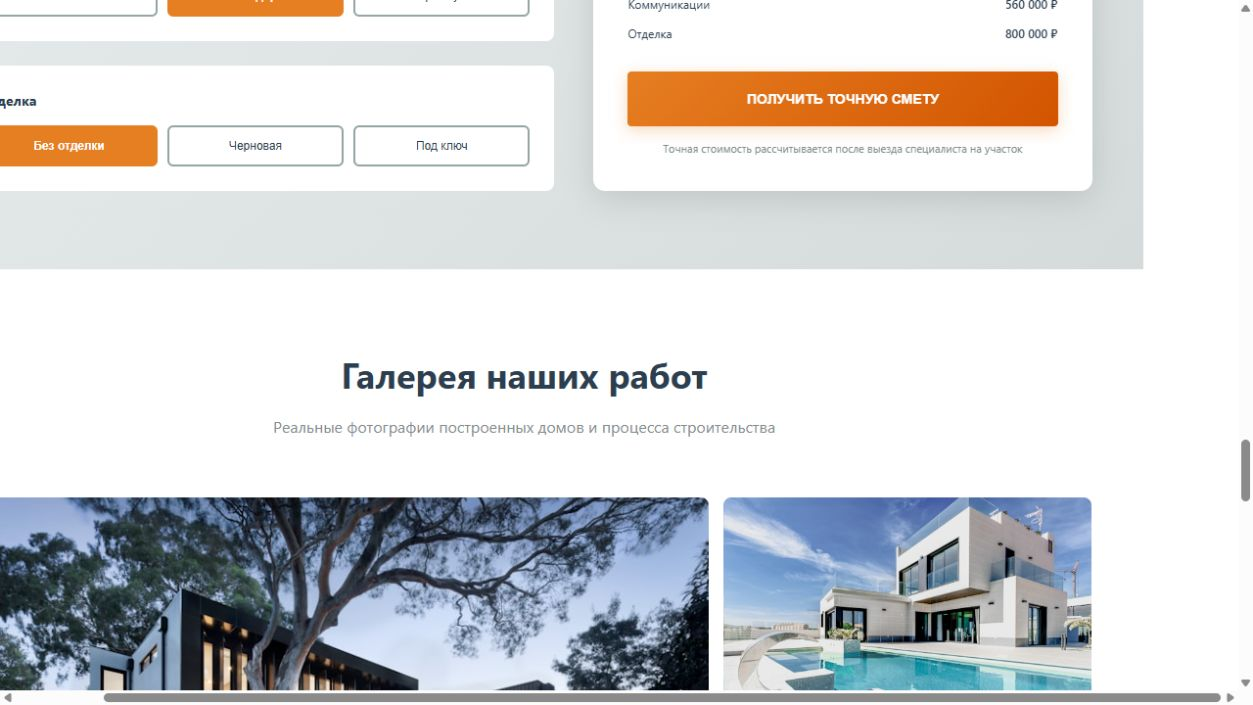
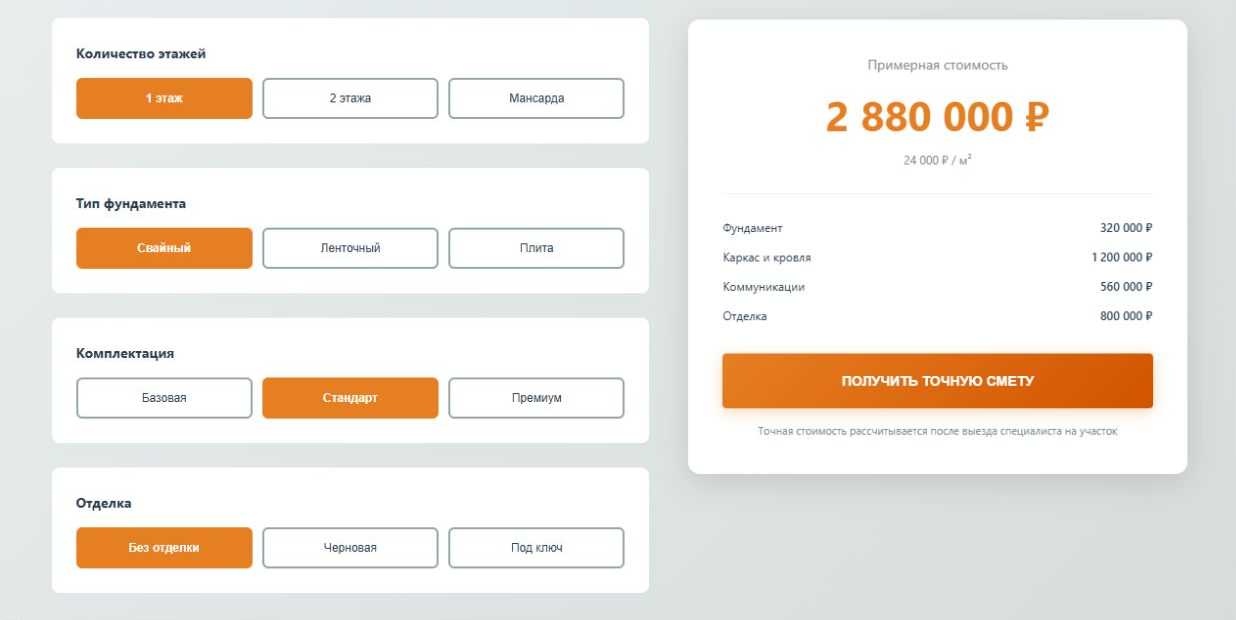
Polish case visuals and hero 3D

diff --git a/index.html b/index.html
@@ -138,6 +138,11 @@ body.admin-mode #cursor { display:none }
 .case-browser-bar span { width:.45rem; height:.45rem; border-radius:50%; background:#8f8c84 }
 .case-browser-bar i { display:block; width:35%; height:.42rem; margin-left:.35rem; border-radius:99px; background:#b4b1a9 }
 .case-browser img { display:block; width:100%; background:#111 }
+.case-screen--dream .case-screen-head { max-width:54rem }
+.case-screen--dream .case-browser { max-width:76rem; margin-inline:auto; padding:.65rem; overflow:hidden; background:#eef0ed; border-color:#d3d7d1; box-shadow:0 1.6rem 4rem rgba(18,25,28,.14) }
+.case-screen--dream .case-browser-bar { height:2.1rem; padding:0 .7rem; background:#fff; border:1px solid #d8ddd7; border-bottom:0 }
+.case-screen--dream .case-browser-bar strong { margin-left:auto; color:#606763; font-family:'JetBrains Mono',monospace; font-size:.63rem; font-weight:400; letter-spacing:.08em; text-transform:uppercase }
+.case-screen--dream .case-browser img { background:#e8edee; image-rendering:auto }
 .case-impact { display:grid; grid-template-columns:repeat(3,minmax(0,1fr)); gap:1px; margin-top:2.5rem; background:#d6d4cc; border:1px solid #d6d4cc }
 .case-impact-item { padding:1.35rem 1.5rem; background:#fff; color:#353535; font-size:.96rem; line-height:1.5 }
 .case-impact-item::before { content:'↗'; display:block; margin-bottom:1.1rem; color:var(--ink); font-family:'JetBrains Mono',monospace; font-size:1.1rem }
@@ -146,6 +151,8 @@ body.admin-mode #cursor { display:none }
 .case-next h2 { max-width:44rem; margin:0 0 1.75rem; font-family:'Space Grotesk',sans-serif; font-size:clamp(2rem,5vw,4rem); font-weight:700; line-height:.98; letter-spacing:-.06em; text-transform:uppercase }
 .case-next .btn { background:var(--bg); color:var(--ink) }
 .case-next .btn:hover { background:#d7d5ce; color:var(--ink) }
+.case-next .case-concept-link { background:transparent !important; color:var(--bg) !important; border:1px solid var(--bg) !important; box-shadow:inset 0 0 0 1px rgba(255,255,255,.16) }
+.case-next .case-concept-link:hover { background:var(--bg) !important; color:var(--ink) !important }
 @media (max-width:768px) {
   .case-facts, .case-principles, .case-impact { grid-template-columns:1fr }
   .case-fact { min-height:auto }
@@ -154,6 +161,9 @@ body.admin-mode #cursor { display:none }
   .case-screen-head { grid-template-columns:3.5rem minmax(0,1fr); gap:.75rem }
   .case-browser { padding:.35rem }
   .case-browser-bar { height:1.45rem }
+  .case-screen--dream .case-browser { padding:.35rem }
+  .case-screen--dream .case-browser-bar { height:1.65rem; padding:0 .45rem }
+  .case-screen--dream .case-browser-bar strong { font-size:.52rem }
 }
 
 /* ── админка: каркас ──────────────────────────────────── */
@@ -747,11 +757,12 @@ async function viewDetail(slug){
   const caseSites = { 'amber-soul':'https://papagama.github.io/ambersoul/', 'aero-x1':'https://papagama.github.io/aero-x1-showroom/', 'dream-house':'https://papagama.github.io/dream-house/', 'melnik':'https://papagama.github.io/melnik/' };
   const site = esc(caseSites[p.slug] || p.site_url || '');
   const frames = (p.gallery || []).filter(Boolean);
+  const isDreamHouse = p.slug === 'dream-house';
   const screenBlocks = frames.map((src, index) => {
     const screen = story.screens[index] || [`Экран ${String(index + 1).padStart(2, '0')}`, 'Ключевой фрагмент пользовательского сценария и визуального языка.'];
-    return `<figure class="case-screen">
+    return `<figure class="case-screen${isDreamHouse ? ' case-screen--dream' : ''}">
       <figcaption class="case-screen-head"><span class="case-screen-number">${String(index + 1).padStart(2, '0')} / ${String(frames.length).padStart(2, '0')}</span><div><h3>${esc(screen[0])}</h3><p>${esc(screen[1])}</p></div></figcaption>
-      <div class="case-browser"><div class="case-browser-bar"><span></span><span></span><span></span><i></i></div><img src="${esc(src)}" alt="${esc(projectTitle(p))}: ${esc(screen[0])}" loading="lazy"></div>
+      <div class="case-browser${isDreamHouse ? ' case-browser--dream' : ''}"><div class="case-browser-bar"><span></span><span></span><span></span><i></i>${isDreamHouse ? `<strong>${index === 0 ? 'Каталог домов' : 'Калькулятор стоимости'}</strong>` : ''}</div><img src="${esc(src)}" alt="${esc(projectTitle(p))}: ${esc(screen[0])}" loading="lazy"></div>
     </figure>`;
   }).join('');
   const chips = [...(p.services || []), ...(p.technologies || [])].map(value => '<span class="chip" style="cursor:default">' + esc(value) + '</span>').join('');
@@ -796,7 +807,7 @@ async function viewDetail(slug){
       <h2>Нужен сайт, который объясняет ценность и ведёт к действию?</h2>
       <div class="flex gap-3 flex-wrap">
         <a href="#/contact" class="btn inline-flex items-center px-6 py-3 text-sm font-medium transition-colors">Обсудить проект →</a>
-        ${site ? `<a href="${site}" target="_blank" rel="noopener" class="btn inline-flex items-center px-6 py-3 text-sm font-medium transition-colors !bg-transparent !text-[#171717] !border !border-[#171717] hover:!bg-[#171717] hover:!text-white">Открыть концепт ↗</a>` : ''}
+        ${site ? `<a href="${site}" target="_blank" rel="noopener" class="btn case-concept-link inline-flex items-center px-6 py-3 text-sm font-medium transition-colors">Открыть концепт ↗</a>` : ''}
       </div>
     </section>
   </article>`;
@@ -1254,43 +1265,43 @@ function initHero3D(){
   if (!canvas || !window.THREE || matchMedia('(prefers-reduced-motion: reduce)').matches) return;
   try {
     const scene = new THREE.Scene();
-    const camera = new THREE.PerspectiveCamera(45, innerWidth / innerHeight, .1, 100);
-    camera.position.z = 6;
+    const camera = new THREE.PerspectiveCamera(42, innerWidth / innerHeight, .1, 100);
+    camera.position.z = 6.25;
     const renderer = new THREE.WebGLRenderer({ canvas, alpha:true, antialias:true, powerPreference:'high-performance' });
-    renderer.setPixelRatio(Math.min(devicePixelRatio, 2.5));
+    renderer.setPixelRatio(Math.min(devicePixelRatio || 1, 2));
     renderer.outputEncoding = THREE.sRGBEncoding;
     renderer.physicallyCorrectLights = true;
     renderer.toneMapping = THREE.ACESFilmicToneMapping;
-    renderer.toneMappingExposure = 1.15;
+    renderer.toneMappingExposure = 1.28;
     renderer.setSize(canvas.clientWidth || innerWidth, canvas.clientHeight || innerHeight, false);
 
     const object = new THREE.Group();
     const knot = new THREE.Mesh(
-      new THREE.TorusKnotGeometry(1.15, .31, 260, 48, 2, 3),
-      new THREE.MeshPhysicalMaterial({ color:0x0b0b0b, roughness:.16, metalness:.94, clearcoat:1, clearcoatRoughness:.12 })
+      new THREE.TorusKnotGeometry(1.14, .285, 320, 64, 2, 3),
+      new THREE.MeshPhysicalMaterial({ color:0x454545, roughness:.08, metalness:1, clearcoat:1, clearcoatRoughness:.035, reflectivity:1 })
     );
-    const wire = new THREE.Mesh(
-      new THREE.TorusKnotGeometry(1.155, .315, 260, 48, 2, 3),
-      new THREE.MeshBasicMaterial({ color:0xffffff, wireframe:true, transparent:true, opacity:.045 })
-    );
-    object.add(knot, wire);
-    object.position.set(3.4, -.4, 0);
-    object.rotation.set(.18, -.42, .1);
+    object.add(knot);
+    object.position.set(3.25, -.2, 0);
+    object.rotation.set(.38, -1.18, .1);
     scene.add(object);
 
-    const hemisphere = new THREE.HemisphereLight(0xffffff, 0x2b2b2b, 1.8);
+    const hemisphere = new THREE.HemisphereLight(0xffffff, 0x404040, 2.15);
     scene.add(hemisphere);
-    const key = new THREE.DirectionalLight(0xffffff, 4.5);
-    key.position.set(4, 5, 7);
+    const key = new THREE.DirectionalLight(0xffffff, 5.8);
+    key.position.set(5, 6, 7);
     scene.add(key);
-    const rim = new THREE.DirectionalLight(0xd9d9d9, 3.2);
-    rim.position.set(-5, 1, -4);
+    const rim = new THREE.DirectionalLight(0xdfe8f2, 4.8);
+    rim.position.set(-6, 2, -4);
     scene.add(rim);
-    const fill = new THREE.PointLight(0xffffff, 18, 18);
-    fill.position.set(0, -2, 4);
+    const fill = new THREE.PointLight(0xffffff, 32, 16);
+    fill.position.set(-1, -1, 5);
     scene.add(fill);
+    const sparkle = new THREE.PointLight(0xe8f4ff, 20, 12);
+    sparkle.position.set(2, 4, 2);
+    scene.add(sparkle);
 
     let mx = 0, my = 0;
+    let baseScale = 1;
     const onMove = e => { mx = e.clientX / innerWidth * 2 - 1; my = -(e.clientY / innerHeight * 2 - 1); };
     addEventListener('mousemove', onMove);
     const onResize = () => {
@@ -1299,24 +1310,30 @@ function initHero3D(){
       const isMobile = innerWidth < 768;
       camera.aspect = width / height;
       camera.updateProjectionMatrix();
-      camera.position.z = isMobile ? 5.2 : 6;
+      camera.position.z = isMobile ? 5.2 : 6.25;
       renderer.setSize(width, height, false);
-      object.position.set(isMobile ? 0 : 3.4, isMobile ? 0 : -.4, 0);
-      object.scale.setScalar(isMobile ? 1.02 : 1);
+      object.position.set(isMobile ? 0 : 3.25, isMobile ? 0 : -.2, 0);
+      baseScale = isMobile ? 1.02 : 1.08;
+      object.scale.setScalar(baseScale);
     };
     addEventListener('resize', onResize);
     onResize();
 
     let raf;
+    const startedAt = performance.now();
     const loop = () => {
       raf = requestAnimationFrame(loop);
-      object.rotation.x += .002 + my * .0025;
-      object.rotation.y += .003 + mx * .003;
-      wire.rotation.copy(object.rotation);
+      const time = (performance.now() - startedAt) / 1000;
+      const reveal = Math.min(time / 1.15, 1);
+      const ease = 1 - Math.pow(1 - reveal, 4);
+      object.scale.setScalar(baseScale * (.9 + .1 * ease));
+      object.rotation.x = .4 - .16 * ease + Math.sin(time * .78) * .052 + my * .08;
+      object.rotation.y = -1.18 + .7 * ease + Math.sin(time * .62) * .12 + mx * .12;
+      object.rotation.z = .1 + Math.cos(time * .72) * .045 - mx * .035;
       renderer.render(scene, camera);
     };
     loop();
-    HERO3D = { raf, renderer, onMove, onResize, knot, wire };
+    HERO3D = { raf, renderer, onMove, onResize, knot };
   } catch (e) { /* webgl недоступен — не критично */ }
 }
 
@@ -1325,7 +1342,7 @@ function destroyHero3D(){
   cancelAnimationFrame(HERO3D.raf);
   removeEventListener('mousemove', HERO3D.onMove);
   removeEventListener('resize', HERO3D.onResize);
-  try { HERO3D.knot.geometry.dispose(); HERO3D.knot.material.dispose(); HERO3D.wire.geometry.dispose(); HERO3D.wire.material.dispose(); HERO3D.renderer.dispose() } catch (e) {}
+  try { HERO3D.knot.geometry.dispose(); HERO3D.knot.material.dispose(); HERO3D.renderer.dispose() } catch (e) {}
   HERO3D = null;
 }
 
